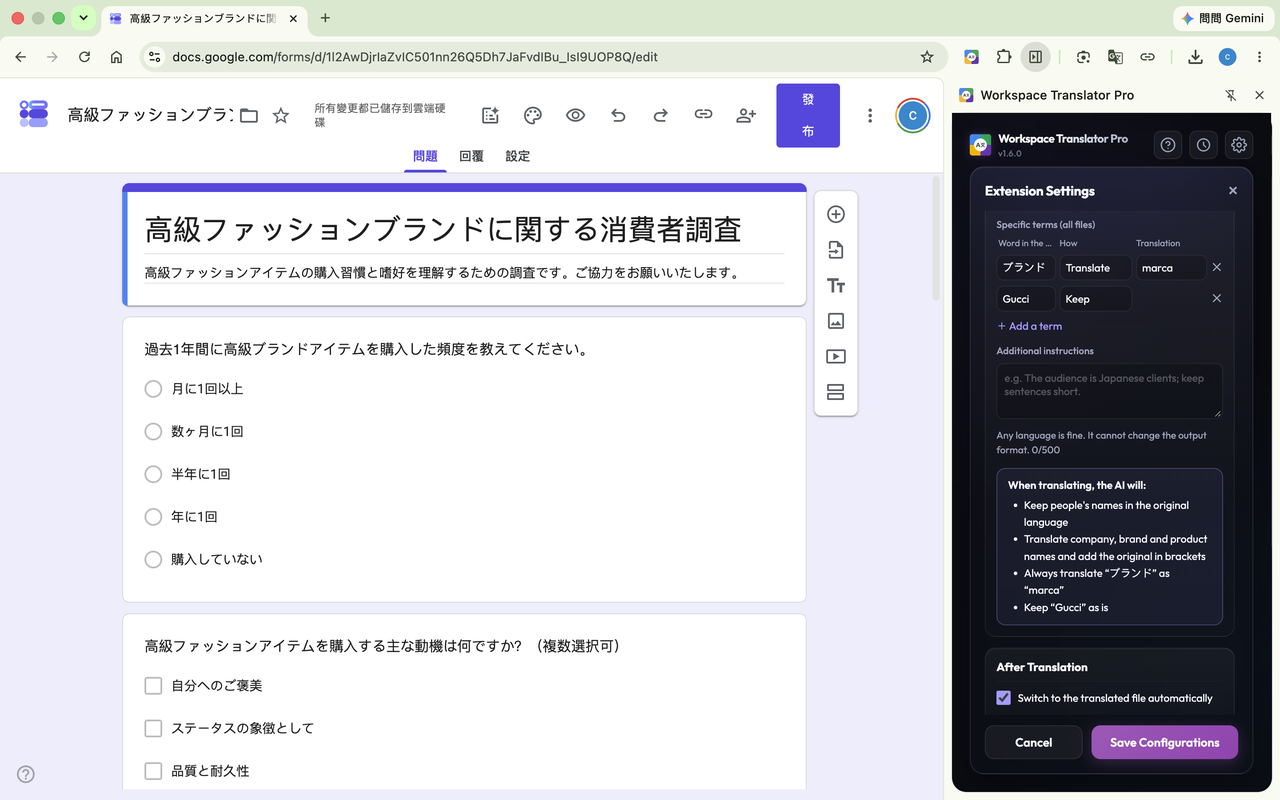
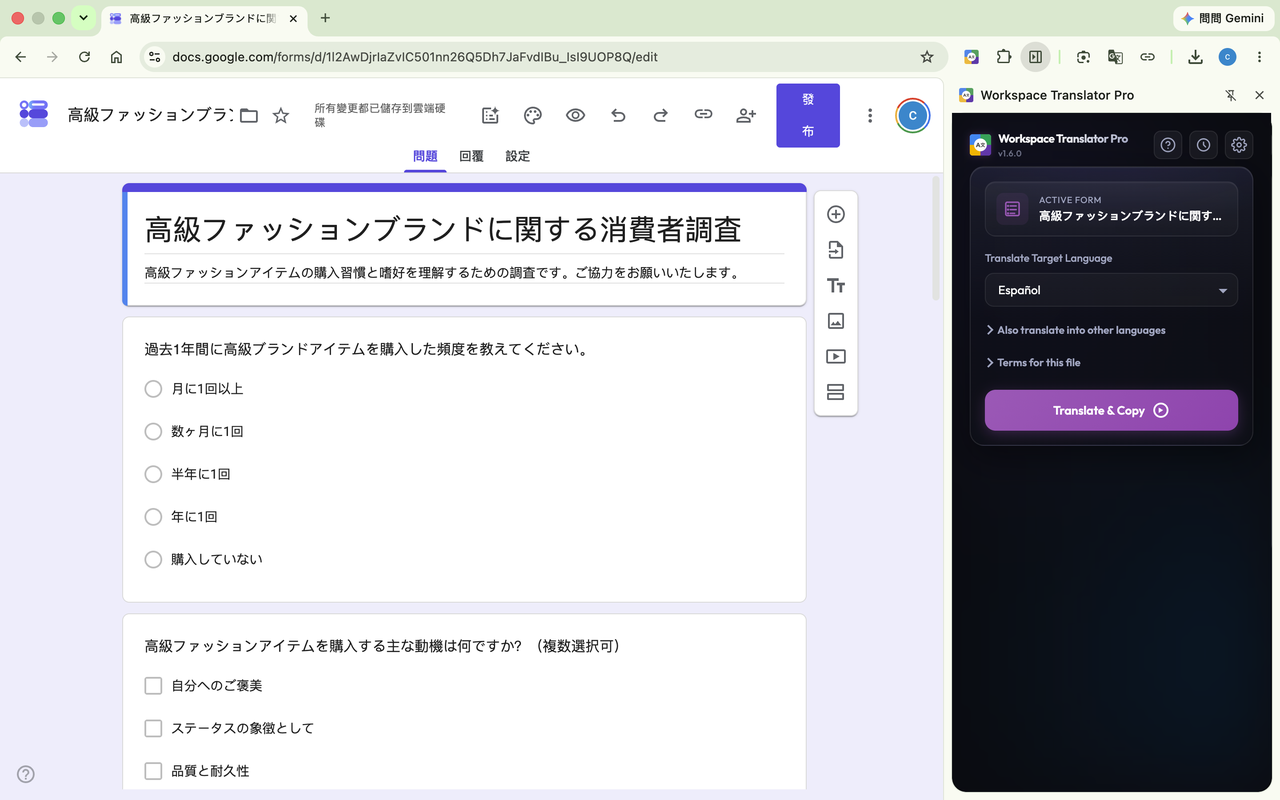
store: form photo shows the simple main view (Español selected)

diff --git a/store-assets/retouch.py b/store-assets/retouch.py
@@ -45,11 +45,8 @@ PHOTOS = [
          title='Longer text still fits',
          sub='Columns widen and slide fonts shrink automatically — and the translated copy opens as soon as it’s ready.'),
     dict(key='form', accent='#7248b9', lang_name='Español', panel=dict(
-            demo='prefs', type='form', title='高級ファッションブランドに関する消費者調査', lang='es', scroll='terms',
-            terms=json.dumps([{'src': 'ブランド', 'mode': 'translate', 'dst': 'marca'},
-                              {'src': 'Gucci', 'mode': 'keep', 'dst': ''}], ensure_ascii=False)),
-         title='Your words, every time',
-         sub='Set fixed translations for your own terms — e.g. ブランド\u00a0→\u00a0marca — or keep a word untranslated.'),
+            demo='main', type='form', title='高級ファッションブランドに関する消費者調査', lang='es', range=''),
+         title='', sub=''),
 ]
 CAPTION_CSS = (560, 300)               # caption page size in CSS px (card sits bottom-left)
 PHOTO_CSS_SCALE = 2.25                 # 2880-px photo ÷ 1280-px output
